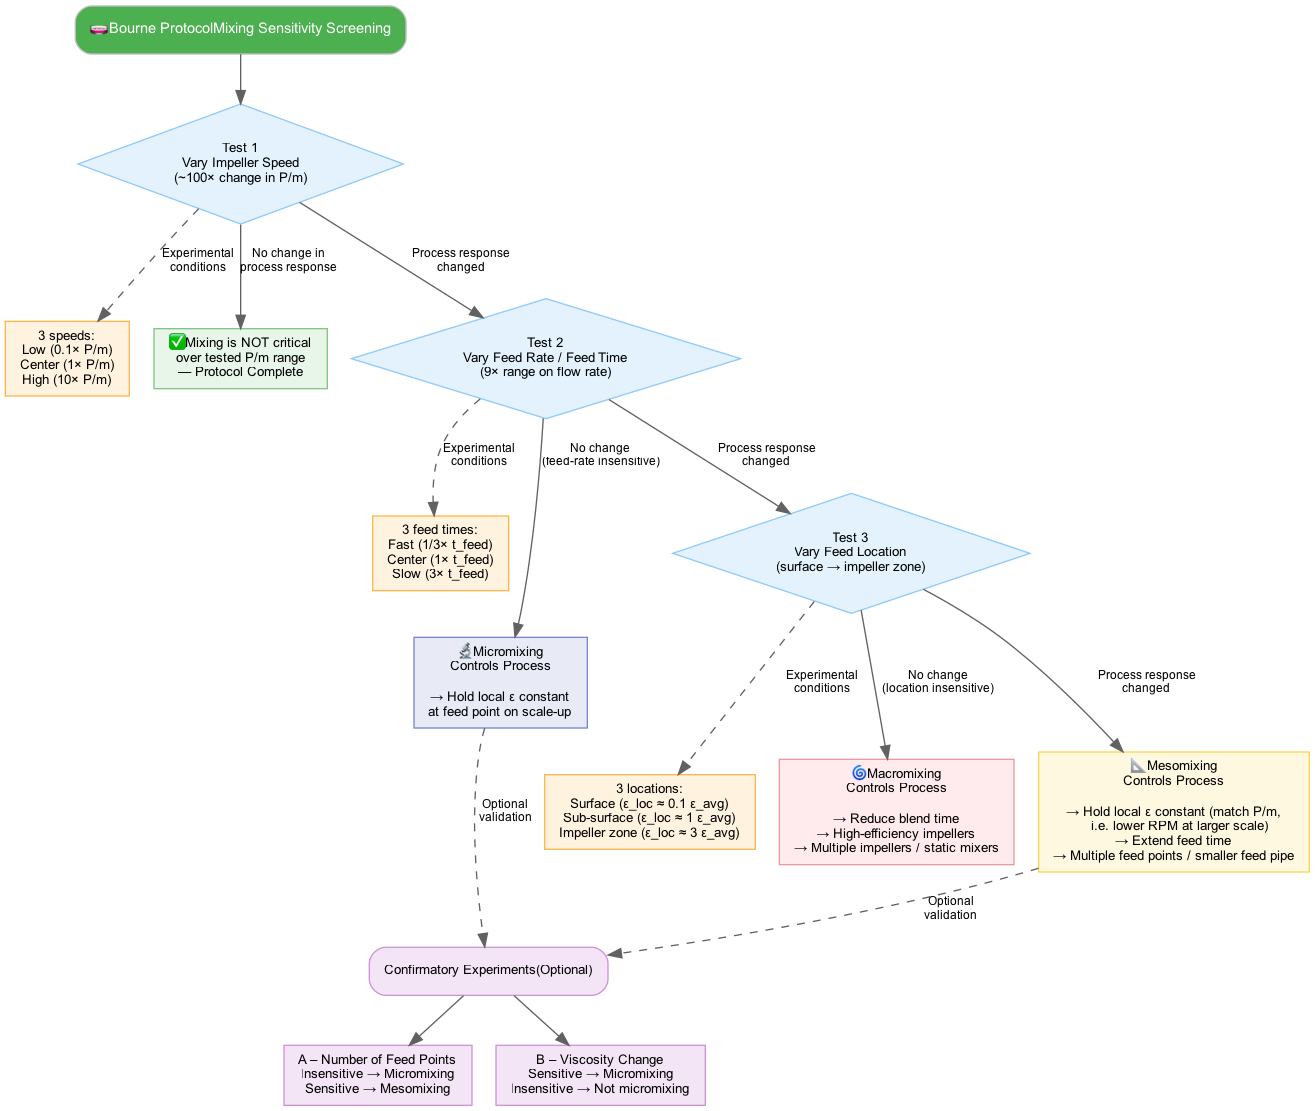
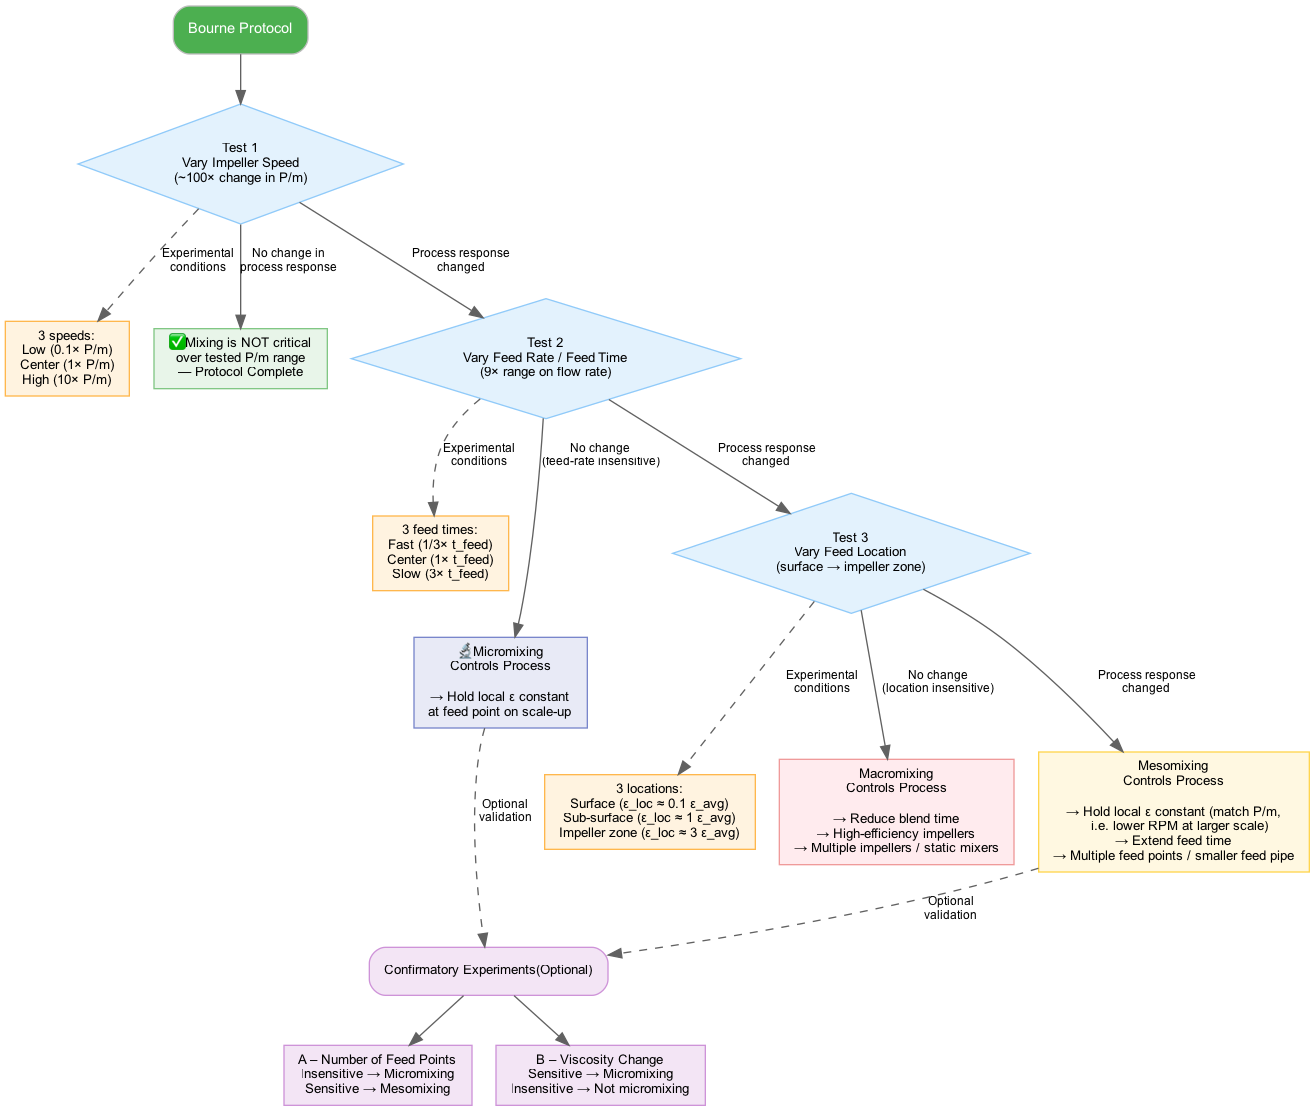
(mb) -rename Reactor Database to Vessel Database across the application -updated decision trees -minor language changes

Changed region(s): [[0.0312, 0.0, 0.3118, 0.0612], [0.8418, 0.6733, 0.9354, 0.7039], [0.6548, 0.6733, 0.7171, 0.7039]]

diff --git a/pages/0_Admin_Import.py b/pages/0_Admin_Import.py
@@ -57,7 +57,7 @@ if not _check_password():
 
 st.caption(
     "Convert the transposed master file **reactors_alt.csv** into the "
-    "row-per-reactor format used by the Reactor Database."
+    "row-per-reactor format used by the Vessel Database."
 )
 
 with st.expander("Reactor Import Tool", expanded=False):
@@ -234,7 +234,7 @@ with st.expander("Reactor Import Tool", expanded=False):
     # ─────────────────────────────────────────────────────────────────────────
     # 4. Load current reactor DB for comparison
     # ─────────────────────────────────────────────────────────────────────────
-    st.header("3 · Current Reactor Database")
+    st.header("3 · Current Vessel Database")
 
     if REACTOR_CSV.exists():
         current_df = pd.read_csv(REACTOR_CSV)
@@ -387,7 +387,7 @@ with st.expander("📋 Field mapping reference", expanded=False):
 | `baffles` | Baffle count | direct |
 | `material` | Shell material | direct |
 
-**Not in alt file** (must be set manually in Reactor Database):
+**Not in alt file** (must be set manually in Vessel Database):
 `Np`, `Nq`, `Np2`, `Np3`, `Zwietering_S`, `GMB_z`, `V_L_min`, `V_L_max`,
 `OD_m`, `knuckle_radius_m`
 """)
@@ -411,11 +411,11 @@ _BOURNE_DOT = """
         edge [fontname="Arial" fontsize=9 color="#616161"]
 
         /* Start */
-        START [label="🧫  Bourne Protocol\nMixing Sensitivity Screening" shape=Mrecord
+        START [label="Bourne Protocol" shape=Mrecord
                fillcolor="#4CAF50" fontcolor=white fontsize=11]
 
         /* Test 1 */
-        T1 [label="Test 1\nVary Impeller Speed\n(~100× change in P/m)" shape=diamond
+        T1 [label="<B>Test 1\nVary Impeller Speed\n(~100× change in P/m)" shape=diamond
             fillcolor="#E3F2FD" color="#90CAF9" fontsize=10]
         T1_SETUP [label="3 speeds:\nLow (0.1× P/m)\nCenter (1× P/m)\nHigh (10× P/m)"
                   fillcolor="#FFF3E0" color="#FFB74D"]
@@ -435,9 +435,9 @@ _BOURNE_DOT = """
             fillcolor="#E3F2FD" color="#90CAF9" fontsize=10]
         T3_SETUP [label="3 locations:\nSurface (ε_loc ≈ 0.1 ε_avg)\nSub-surface (ε_loc ≈ 1 ε_avg)\nImpeller zone (ε_loc ≈ 3 ε_avg)"
                   fillcolor="#FFF3E0" color="#FFB74D"]
-        T3_MACRO [label="🌀 Macromixing\nControls Process\n\n→ Reduce blend time\n→ High-efficiency impellers\n→ Multiple impellers / static mixers"
+        T3_MACRO [label="Macromixing\nControls Process\n\n→ Reduce blend time\n→ High-efficiency impellers\n→ Multiple impellers / static mixers"
                   fillcolor="#FFEBEE" color="#EF9A9A" fontsize=10]
-        T3_MESO [label="📐 Mesomixing\nControls Process\n\n→ Hold local ε constant (match P/m,\n   i.e. lower RPM at larger scale)\n→ Extend feed time\n→ Multiple feed points / smaller feed pipe"
+        T3_MESO [label="Mesomixing\nControls Process\n\n→ Hold local ε constant (match P/m,\n   i.e. lower RPM at larger scale)\n→ Extend feed time\n→ Multiple feed points / smaller feed pipe"
                  fillcolor="#FFF8E1" color="#FFD54F" fontsize=10]
 
         /* Confirmatory */
@@ -517,20 +517,22 @@ _MSP_DOT = """
         edge [fontname="Arial" fontsize=9 color="#616161"]
 
         /* start / end nodes */
-        START [label="🧭  Start Protocol" shape=Mrecord
+        START [label="Mixing Sensitivity Protocol" shape=Mrecord
                fillcolor="#4CAF50" fontcolor=white fontsize=11]
         SUM   [label="6 · Summary & \\nRecommendations" shape=Mrecord
                fillcolor="#2196F3" fontcolor=white fontsize=11]
 
-        /* Step 0 – Bourne pre-screening (3 outcomes) */
-        BOURNE [label="0 · Bourne Protocol\\nPart 1 pre-screen" shape=diamond
+        /* Step 0 – Bourne pre-screening (import outcomes) */
+        BOURNE [label="0 · Bourne Protocol\\nPart 1 pre-screen\\n(import results / skip)" shape=diamond
                 fillcolor="#E3F2FD" color="#90CAF9"]
         B_SENS [label="🔴 Mixing sensitivity\\nconfirmed experimentally"
                 fillcolor="#FFEBEE" color="#EF9A9A"]
-        B_MECH [label="(optional) identify controlling\\nscale from Bourne tests:\\nTest 1 → micromixing\\nTest 2 → mesomixing\\nTest 3 → meso-/macromixing"
+        B_MECH [label="(optional) controlling scale\\nfrom Bourne tests:\\nTest 2 insensitive → micromixing\\nTest 2 sens. + Test 3 sens. → mesomixing\\nTest 2 sens. + Test 3 insens. → macromixing"
                 fillcolor="#FFF8E1" color="#FFD54F"]
         B_NONE [label="🟢 No sensitivity\\nobserved at lab scale"
                 fillcolor="#E8F5E9" color="#81C784"]
+        B_UNK [label="🟡 Imported, but Test 1\\nnot completed →\\nsensitivity undetermined"
+               fillcolor="#FFF8E1" color="#FFD54F"]
         B_SKIP [label="⚪ Skipped\\n→ proceed with theory"
                 fillcolor="#F5F5F5" color="#BDBDBD"]
 
@@ -543,6 +545,8 @@ _MSP_DOT = """
                  fillcolor="#FFF8E1" color="#FFD54F"]
         KSEL  [label="Select reaction\\nfrom database\\n→ compute t_rxn"
                fillcolor="#E8F5E9" color="#81C784"]
+        KBONLY [label="🅱 Finish now — use\\nBourne result as final\\noutput (skip Damköhler)" shape=Mrecord
+                fillcolor="#E8EAF6" color="#7986CB"]
 
         /* Semi-batch decision (after kinetics, before phases) */
         SB    [label="Semi-batch\\n(fed-batch)?" shape=diamond
@@ -614,14 +618,17 @@ _MSP_DOT = """
         START -> BOURNE
         BOURNE -> B_SENS [label="Sensitivity\\nconfirmed"]
         BOURNE -> B_NONE [label="No sensitivity\\nobserved"]
+        BOURNE -> B_UNK  [label="Test 1\\nincomplete"]
         BOURNE -> B_SKIP [label="Skip"]
         B_SENS -> B_MECH [style=dashed]
         B_MECH -> K
         B_NONE -> K
+        B_UNK  -> K
         B_SKIP -> K
 
         /* Step 1 */
-        K -> KACT    [label="No kinetics\\n(STOP)"]
+        K -> KACT    [label="No kinetics\\n(measure)"]
+        K -> KBONLY  [label="No kinetics +\\nBourne imported\\n(finish now)"]
         K -> KAPPROX [label="Approximate"]
         K -> KSEL    [label="Yes"]
         KACT -> K    [label="Data obtained\\n→ repeat Step 1" style=dashed]

diff --git a/pages/1_Reactor_Database.py b/pages/1_Reactor_Database.py
@@ -1,4 +1,4 @@
-"""Page 1 – Reactor Database: browse, add, edit, import/export reactor geometries."""
+"""Page 1 – Vessel Database: browse, add, edit, import/export reactor geometries."""
 
 import streamlit as st
 
@@ -171,7 +171,7 @@ else:
     # Rebuild search_name in case probes or impeller_type changed
     st.session_state.reactor_db = build_search_names(st.session_state.reactor_db)
 
-st.title("⚗ Reactor Database")
+st.title("⚗ Vessel Database")
 
 # Warn if any reactor IDs were auto-assigned on this load
 _startup_assigned = st.session_state.pop("_startup_assigned_ids", [])
@@ -191,7 +191,7 @@ tab_browse, tab_add, tab_import = st.tabs(["Browse & Edit", "Add Reactor", "Impo
 
 # ── Browse & Edit ─────────────────────────────────────────────────────────
 with tab_browse:
-    st.markdown("Filter and edit the reactor database. Changes are saved when you click **Save changes**.")
+    st.markdown("Filter and edit the vessel database. Changes are saved when you click **Save changes**.")
 
     col_f0, col_f1, col_f2, col_f3 = st.columns(4)
     with col_f0:
@@ -267,7 +267,7 @@ with tab_browse:
             else:
                 st.session_state.reactor_db = _save_df
             _save_reactors(st.session_state.reactor_db)
-            st.toast("Reactor database saved.")
+            st.toast("Vessel database saved.")
             st.rerun()
 
     # ── Reactor Viewer ────────────────────────────────────────────────────
@@ -1533,7 +1533,7 @@ with tab_add:
             st.session_state.reactor_db = pd.concat(
                 [st.session_state.reactor_db, new_row], ignore_index=True)
             _save_reactors(st.session_state.reactor_db)
-            st.success(f"Added **{name}** to the reactor database.")
+            st.success(f"Added **{name}** to the vessel database.")
         elif submitted and _reactor_errors:
             for _e in _reactor_errors:
                 st.error(_e)
@@ -1544,7 +1544,7 @@ with tab_add:
 with tab_import:
     st.markdown("### Export")
     st.download_button(
-        "⬇ Download reactor database (CSV)",
+        "⬇ Download vessel database (CSV)",
         data=st.session_state.reactor_db.to_csv(index=False).encode("utf-8"),
         file_name="reactors_export.csv",
         mime="text/csv",
@@ -1577,6 +1577,6 @@ with tab_import:
 
                 st.session_state.reactor_db = result_df
                 _save_reactors(st.session_state.reactor_db)
-                st.success("Reactor database updated.")
+                st.success("Vessel database updated.")
         except Exception as e:
             st.error(f"Error reading CSV: {e}")

diff --git a/pages/home.py b/pages/home.py
@@ -15,14 +15,14 @@ Welcome to **Mixing Lab** – an interactive tool for assessing reaction mixing 
 
 | Group | Page | Purpose |
 |-------|------|---------|
-| **Databases** | **⚗ Reactor Database** | Browse, add, and edit reactor geometries with 2D/3D schematics; use existing reactors as templates |
-| | **🧪 Reaction Database** | Manage reactions with kinetic parameters (rate constants, orders, concentrations, ΔH) |
-| | **💧 Fluid Database** | Browse built-in solvents, explore temperature-dependent properties, and manage custom fluids |
-| | **❇ Particle Database** | Define solid-particle properties (density, PSD, shape factor) |
-| **Analysis** | **🧭 Reaction Sensitivity Protocol** | Interactive decision tree to assess which mixing mechanisms may limit your reaction at scale |
-| | **💎 Crystallization Sensitivity Protocol** | Decision tree for crystallization mixing sensitivity (nucleation, growth, anti-solvent) |
+| **Databases** | **⚗ Vessels** | Browse, add, and edit reactor geometries with 2D/3D schematics; use existing reactors as templates |
+| | **🧪 Reactions** | Manage reactions with kinetic parameters (rate constants, orders, concentrations, ΔH) |
+| | **💧 Fluids** | Browse built-in solvents, explore temperature-dependent properties, and manage custom fluids |
+| | **❇ Particles** | Define solid-particle properties (density, PSD, shape factor) |
+| **Mixing Analysis** | **🅱 Bourne Protocol** | Step-by-step Bourne/Sarafinas mixing-sensitivity screening – vary agitation speed, feed rate, and feed location to identify the controlling mixing scale |
+| | **🧭 Reaction Sensitivity Protocol** | Interactive workflow to identify potential mixing sensitivities of a reaction process and determine which mixing mechanisms may limit the reaction at scale |
+| | **🚧 Crystallization Sensitivity Protocol (WIP)** | Interactive workflow to identify potential mixing sensitivities of a crystallization process and determine which mixing mechanisms may limit the reaction at scale |
 | | **🌀 Vessel Assessment** | Reactor–reaction–fluid analysis: compute hydrodynamics, Damköhler numbers, heat balance, solids suspension & operating envelopes |
-| | **🅱 Bourne Protocol** | Step-by-step Bourne/Sarafinas mixing-sensitivity screening – vary speed, feed rate, and feed location to identify the controlling mixing scale |
 | | **⚖ Vessel Comparison** | Side-by-side comparison of hydrodynamics and operating envelopes across multiple reactors |
 | **Tools** | **🔄 Unit Converter** | Quick conversion between common engineering units |
 | | **🔥 Heat Transfer** | Estimate heating/cooling times, compute overall U from first principles, visualize batch temperature profiles, and compare heat-transfer media |

diff --git a/pages/6_Bourne_Protocol.py b/pages/6_Bourne_Protocol.py
@@ -175,7 +175,7 @@ st.markdown(
     unsafe_allow_html=True,
 )
 
-st.title("🅱 Bourne Protocol – Mixing Sensitivity Screening")
+st.title("🅱 Bourne Protocol")
 st.markdown("""
 Determines **which mixing scale** (macro / meso / micro) controls your
 process outcome. Applicable to any semi-batch stirred-tank process with
@@ -604,7 +604,7 @@ with col_r:
         V_L_min = safe_float(r.get("V_L_min"), 0.0) or safe_float(r.get("V_L"), 0.0)
         V_L_max = safe_float(r.get("V_L_max"), 0.0) or safe_float(r.get("V_L"), 0.0)
         V_L_avg = (V_L_min + V_L_max) / 2.0
-        # RPM bounds from reactor database
+        # RPM bounds from vessel database
         N_rpm_min = safe_float(r.get("N_rpm_min"), 0.0) or None
         N_rpm_max = safe_float(r.get("N_rpm_max"), 0.0) or None
         # Use average of min/max RPM as the centerpoint speed
@@ -687,7 +687,7 @@ _reactor_tag = reactor_name.replace(" ", "_") if not reactors.empty else "manual
 V_L = st.number_input(
     "Working volume (L)", min_value=_vol_min, value=_vol_min,
     step=0.001, format="%.3f", key=_bk(f"vol_L_{_reactor_tag}"),
-    help="Defaults to the minimum volume from the reactor database.",
+    help="Defaults to the minimum volume from the vessel database.",
 )
 V_m3 = V_L / 1000.0  # m³
 
@@ -849,7 +849,7 @@ pv_ratio = t1_rows[2]["P/m (W/kg)"] / t1_rows[0]["P/m (W/kg)"] if t1_rows[0]["P/
 _speed_ratio = N_high / N_low if N_low > 0 else 0
 st.caption(f"P/m ratio (high/low) = **{pv_ratio:.1f}×**  •  Speed ratio (high/low) = **{_speed_ratio:.2f}×**")
 st.caption(f"Power is computed with a fixed power number Np = **{Np_val:.2f}** "
-           f"(from the reactor database, or 1.27 if unset). The Vessel Assessment "
+           f"(from the vessel database, or 1.27 if unset). The Vessel Assessment "
            f"and Vessel Comparison pages instead use a Reynolds-dependent / ROM "
            f"power number, so their P/V values may differ for the same reactor.")
 

diff --git a/Mixing_Lab.py b/Mixing_Lab.py
@@ -45,10 +45,10 @@ for _k in list(st.session_state.keys()):
 home = st.Page("pages/home.py", title="App Overview", default=True)
 
 databases = [
-    st.Page("pages/1_Reactor_Database.py",  title="Reactor Database",  icon="⚗"),
-    st.Page("pages/2_Reaction_Database.py", title="Reaction Database", icon="🧪"),
-    st.Page("pages/3_Fluid_Database.py",    title="Fluid Database",    icon="💧"),
-    st.Page("pages/4_Particle_Database.py", title="Particle Database", icon="❇"),
+    st.Page("pages/1_Reactor_Database.py",  title="Vessels",   icon="⚗"),
+    st.Page("pages/2_Reaction_Database.py", title="Reactions", icon="🧪"),
+    st.Page("pages/3_Fluid_Database.py",    title="Fluids",    icon="💧"),
+    st.Page("pages/4_Particle_Database.py", title="Particles", icon="❇"),
 ]
 
 analysis = [
@@ -80,7 +80,7 @@ admin = [
 nav = st.navigation({
     "": [home],
     "Databases": databases,
-    "Analysis": analysis,
+    "Mixing Analysis": analysis,
     "Tools": tools,
     "Results": results,
     "Reference": reference,

diff --git a/utils/data_helpers.py b/utils/data_helpers.py
@@ -77,7 +77,7 @@ def load_db(key: str, filename: str, columns: list[str] | None = None) -> pd.Dat
                 df = pd.DataFrame(columns=columns or [])
         else:
             df = pd.DataFrame(columns=columns or [])
-        # Add search_name for reactor databases
+        # Add search_name for vessel databases
         if "reactor_name" in df.columns:
             df = build_search_names(df)
         st.session_state[key] = df

diff --git a/pages/7_Reactor_Comparison.py b/pages/7_Reactor_Comparison.py
@@ -70,7 +70,7 @@ _all_fluid_names = _solvent_names + _custom_names
 st.title("⚖ Vessel Comparison")
 
 if reactors.empty:
-    st.warning("Populate the Reactor Database first.")
+    st.warning("Populate the Vessel Database first.")
     st.stop()
 
 # ── Step gating: track confirmed input sections ──────────────────────────

diff --git a/pages/11_Crystallization_Sensitivity_Protocol.py b/pages/11_Crystallization_Sensitivity_Protocol.py
@@ -661,7 +661,7 @@ if t_G < np.inf and t_G < 120:
 st.subheader("(Optional) Compute Da for a Specific Reactor")
 
 if reactors.empty:
-    st.info("No reactors in database. Add via 🧪 Reactor Database page.")
+    st.info("No reactors in database. Add via ⚗ Vessel Database page.")
 else:
     _reactor_list = reactors["reactor_name"].tolist()
     reactor_name = st.selectbox(

diff --git a/pages/14_Heat_Transfer.py b/pages/14_Heat_Transfer.py
@@ -115,7 +115,7 @@ _all_fluid_names = all_fluid_names(custom_fluids)
 st.title("🔥 Heat Transfer Modeling")
 
 if reactors.empty:
-    st.warning("Please populate the Reactor database first.")
+    st.warning("Please populate the Vessel database first.")
     st.stop()
 
 # ── Callbacks to clear dependent widget keys on upstream changes ─────
